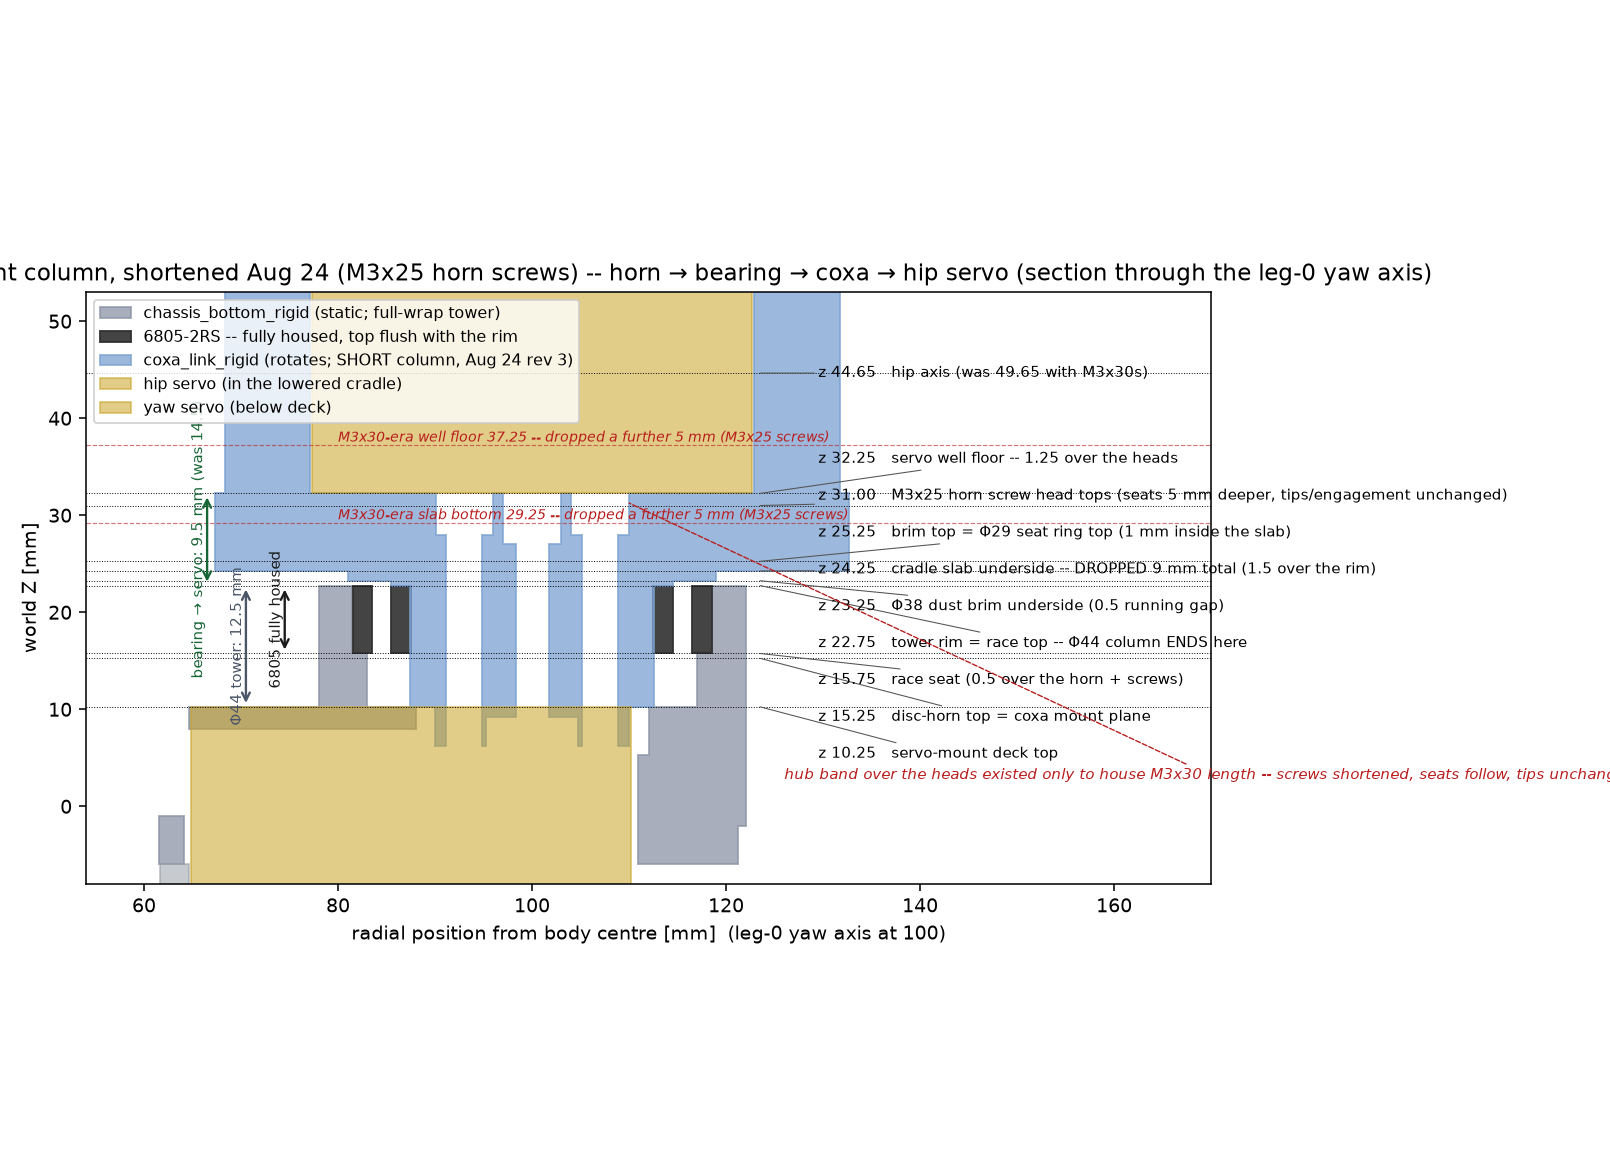
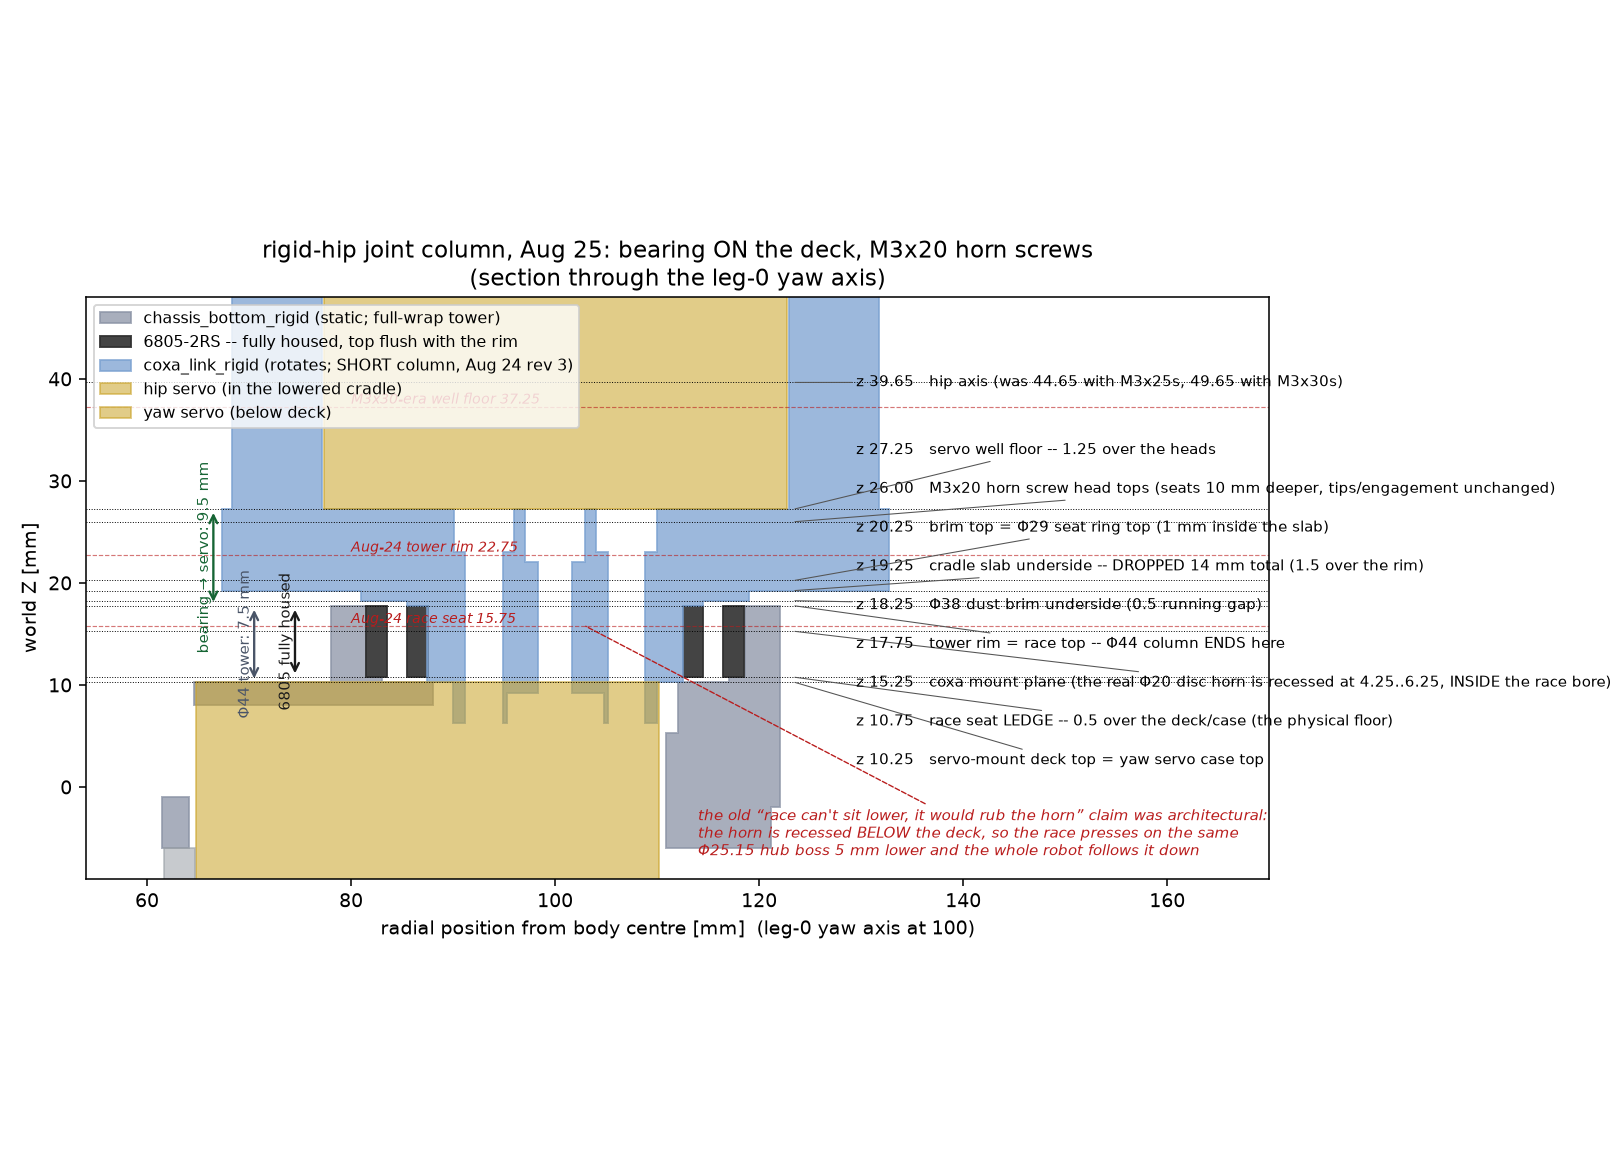
rigid_hip: joint-column figure for the deck-level bearing stack
Annotate the Aug 25 planes (race seat ledge 10.75, rim 17.75, slab
19.25, M3x20 head tops 26.0, floor 27.25, hip axis 39.65), show the
Aug-24 race/rim planes as the dropped-from reference, and replace the
horn-rub note with the corrected recessed-horn explanation.

diff --git a/hexapod_walker/prototype_sts3215/concepts/rigid_hip/make_joint_column_figure.py b/hexapod_walker/prototype_sts3215/concepts/rigid_hip/make_joint_column_figure.py
@@ -1,10 +1,11 @@
 """Regenerate joint_column_annotated.png for the rigid-hip variant.
 
 Radial section through the leg-0 yaw axis, zoomed on the joint column,
-with every z plane annotated: full-wrap tower stack (Aug 24 rev 2) plus
-the SHORTENED coxa hub column (Aug 24 rev 3 skirt/platform delete +
-rev 4 M3x30 -> M3x25 horn screws; the cradle slab drops COL_DROP = 9 mm
-total, so the hip servo sits just above the bearing).
+with every z plane annotated: the Aug 25 BEARING-ON-THE-DECK stack (the
+6805 race sits 0.5 mm over the servo case top on a deck-level tower
+ledge) plus the SHORTENED coxa hub column (Aug 24 rev 3 skirt/platform
+delete + Aug 25 M3x30 -> M3x20 horn screws; the cradle slab drops
+COL_DROP = 14 mm total, so the hip servo sits just above the bearing).
 
 Run from anywhere:  uv run python make_joint_column_figure.py
 Requires the freshly generated stl/ meshes (run make_rigid_hip_variant
@@ -75,34 +76,38 @@ for key, M, color, alpha, label in sections:
 
 A = rv.APOTHEM
 DECK = 10.25
-HORN = hp.CHASSIS_YAW_OUTPUT_Z                        # 15.25
-SEAT = HORN + hp.YAW_BEARING_LOWER_BOT_Z              # 15.75
-RIM = rv.CHB_RIM_W                                    # 22.75
-BRIM0 = HORN + rv.BRIM_BOT_Z                          # 23.25
-BRIM1 = HORN + rv.BRIM_TOP_Z                          # 25.25
-SLAB = HORN + rv.SLAB_BOT_Z                           # 24.25
-RING1 = HORN + rv.HUB_RING_Z1                         # 25.25 (= brim top)
-HEADS = HORN + rv.HORN_HEAD_SEAT_Z + hp.INSERT_M3_BOLT_HEAD_H  # 31.0
-FLOOR = HORN + rv.COXA_FLOOR_Z                        # 32.25
-HIP = HORN + rv.COXA_HIP_DROP_V                       # 44.65
-OLD_SLAB = SLAB + rv.HORN_SEAT_DROP                   # 29.25 (M3x30 build)
+HORN = hp.CHASSIS_YAW_OUTPUT_Z                        # 15.25 coxa origin
+SEAT = HORN + rv.BR_BOT_LOCAL                         # 10.75 race bottom
+RIM = rv.CHB_RIM_W                                    # 17.75
+BRIM0 = HORN + rv.BRIM_BOT_Z                          # 18.25
+BRIM1 = HORN + rv.BRIM_TOP_Z                          # 20.25
+SLAB = HORN + rv.SLAB_BOT_Z                           # 19.25
+RING1 = HORN + rv.HUB_RING_Z1                         # 20.25 (= brim top)
+HEADS = HORN + rv.HORN_HEAD_SEAT_Z + hp.INSERT_M3_BOLT_HEAD_H  # 26.0
+FLOOR = HORN + rv.COXA_FLOOR_Z                        # 27.25
+HIP = HORN + rv.COXA_HIP_DROP_V                       # 39.65
+OLD_SEAT = HORN + hp.YAW_BEARING_LOWER_BOT_Z          # 15.75 (Aug 24 build)
+OLD_RIM = OLD_SEAT + hp.YAW_BEARING_W                 # 22.75 (Aug 24 build)
 OLD_FLOOR = FLOOR + rv.HORN_SEAT_DROP                 # 37.25 (M3x30 build)
 
 # z-plane lines with staggered, leader-lined labels (crowded stack)
 planes = [
-    (DECK, 5.4, "z 10.25   servo-mount deck top"),
-    (HORN, 9.2, "z 15.25   disc-horn top = coxa mount plane"),
-    (SEAT, 13.0, "z 15.75   race seat (0.5 over the horn + screws)"),
-    (RIM, 16.8, "z 22.75   tower rim = race top -- \u03a644 column ENDS here"),
-    (BRIM0, 20.6, "z 23.25   \u03a638 dust brim underside (0.5 running gap)"),
-    (SLAB, 24.4, "z 24.25   cradle slab underside -- DROPPED 9 mm total "
+    (DECK, 2.6, "z 10.25   servo-mount deck top = yaw servo case top"),
+    (SEAT, 6.4, "z 10.75   race seat LEDGE -- 0.5 over the deck/case "
+                "(the physical floor)"),
+    (HORN, 10.2, "z 15.25   coxa mount plane (the real \u03a620 disc horn "
+                 "is recessed at 4.25..6.25, INSIDE the race bore)"),
+    (RIM, 14.0, "z 17.75   tower rim = race top -- \u03a644 column ENDS here"),
+    (BRIM0, 17.8, "z 18.25   \u03a638 dust brim underside (0.5 running gap)"),
+    (SLAB, 21.6, "z 19.25   cradle slab underside -- DROPPED 14 mm total "
                  "(1.5 over the rim)"),
-    (BRIM1, 28.2, "z 25.25   brim top = \u03a629 seat ring top "
+    (BRIM1, 25.4, "z 20.25   brim top = \u03a629 seat ring top "
                   "(1 mm inside the slab)"),
-    (HEADS, 32.0, "z 31.00   M3x25 horn screw head tops "
-                  "(seats 5 mm deeper, tips/engagement unchanged)"),
-    (FLOOR, 35.8, "z 32.25   servo well floor -- 1.25 over the heads"),
-    (HIP, 44.65, "z 44.65   hip axis (was 49.65 with M3x30s)"),
+    (HEADS, 29.2, "z 26.00   M3x20 horn screw head tops "
+                  "(seats 10 mm deeper, tips/engagement unchanged)"),
+    (FLOOR, 33.0, "z 27.25   servo well floor -- 1.25 over the heads"),
+    (HIP, 39.65, "z 39.65   hip axis (was 44.65 with M3x25s, 49.65 with "
+                 "M3x30s)"),
 ]
 for z, ytxt, lab in planes:
     ax.axhline(z, color="k", lw=0.5, ls=":")
@@ -120,34 +125,34 @@ def brace(x, z0, z1, text, color):
                 va="center", ha="center", rotation=90)
 
 
-brace(A - 29.5, DECK, RIM, "\u03a644 tower: 12.5 mm", "#4a5568")
+brace(A - 29.5, DECK, RIM, "\u03a644 tower: 7.5 mm", "#4a5568")
 brace(A - 25.5, SEAT, RIM, "6805 fully housed", "#1a1a1a")
-brace(A - 33.5, RIM, FLOOR, "bearing \u2192 servo: 9.5 mm (was 14.5)",
-      "#166534")
-for z, lab in ((OLD_SLAB, "M3x30-era slab bottom 29.25"),
+brace(A - 33.5, RIM, FLOOR, "bearing \u2192 servo: 9.5 mm", "#166534")
+for z, lab in ((OLD_SEAT, "Aug-24 race seat 15.75"),
+               (OLD_RIM, "Aug-24 tower rim 22.75"),
                (OLD_FLOOR, "M3x30-era well floor 37.25")):
     ax.axhline(z, color="#b91c1c", lw=0.6, ls="--", alpha=0.6)
-    ax.annotate(lab + " -- dropped a further 5 mm (M3x25 screws)",
-                xy=(A - 20.0, z),
+    ax.annotate(lab, xy=(A - 20.0, z),
                 fontsize=7.0, color="#b91c1c", style="italic",
                 va="bottom", ha="left")
-ax.annotate("hub band over the heads existed only to house M3x30 length"
-            " -- screws shortened, seats follow, tips unchanged",
-            xy=(A + 10.0, OLD_SLAB + 2.0),
-            xytext=(A + 26, 3.2), fontsize=7.5,
+ax.annotate("the old \u201crace can't sit lower, it would rub the horn\u201d"
+            " claim was architectural:\nthe horn is recessed BELOW the deck,"
+            " so the race presses on the same\n\u03a625.15 hub boss 5 mm"
+            " lower and the whole robot follows it down",
+            xy=(A + 3.0, OLD_SEAT),
+            xytext=(A + 14, -4.6), fontsize=7.5,
             color="#b91c1c", style="italic", va="center",
             arrowprops=dict(arrowstyle="-", lw=0.7, color="#b91c1c",
                             ls="--", shrinkA=0.0, shrinkB=0.0))
 
 ax.set_xlim(A - 46, A + 70)
-ax.set_ylim(-8, 53)
+ax.set_ylim(-9, 48)
 ax.set_aspect("equal")
 ax.set_xlabel("radial position from body centre [mm]  (leg-0 yaw axis at 100)")
 ax.set_ylabel("world Z [mm]")
 ax.legend(loc="upper left", fontsize=8)
-ax.set_title("rigid-hip joint column, shortened Aug 24 (M3x25 horn screws)"
-             " -- horn \u2192 bearing \u2192 coxa \u2192 hip servo "
-             "(section through the leg-0 yaw axis)")
+ax.set_title("rigid-hip joint column, Aug 25: bearing ON the deck, M3x20 "
+             "horn screws\n(section through the leg-0 yaw axis)")
 fig.tight_layout()
 out = os.path.join(HERE, "joint_column_annotated.png")
 fig.savefig(out)
